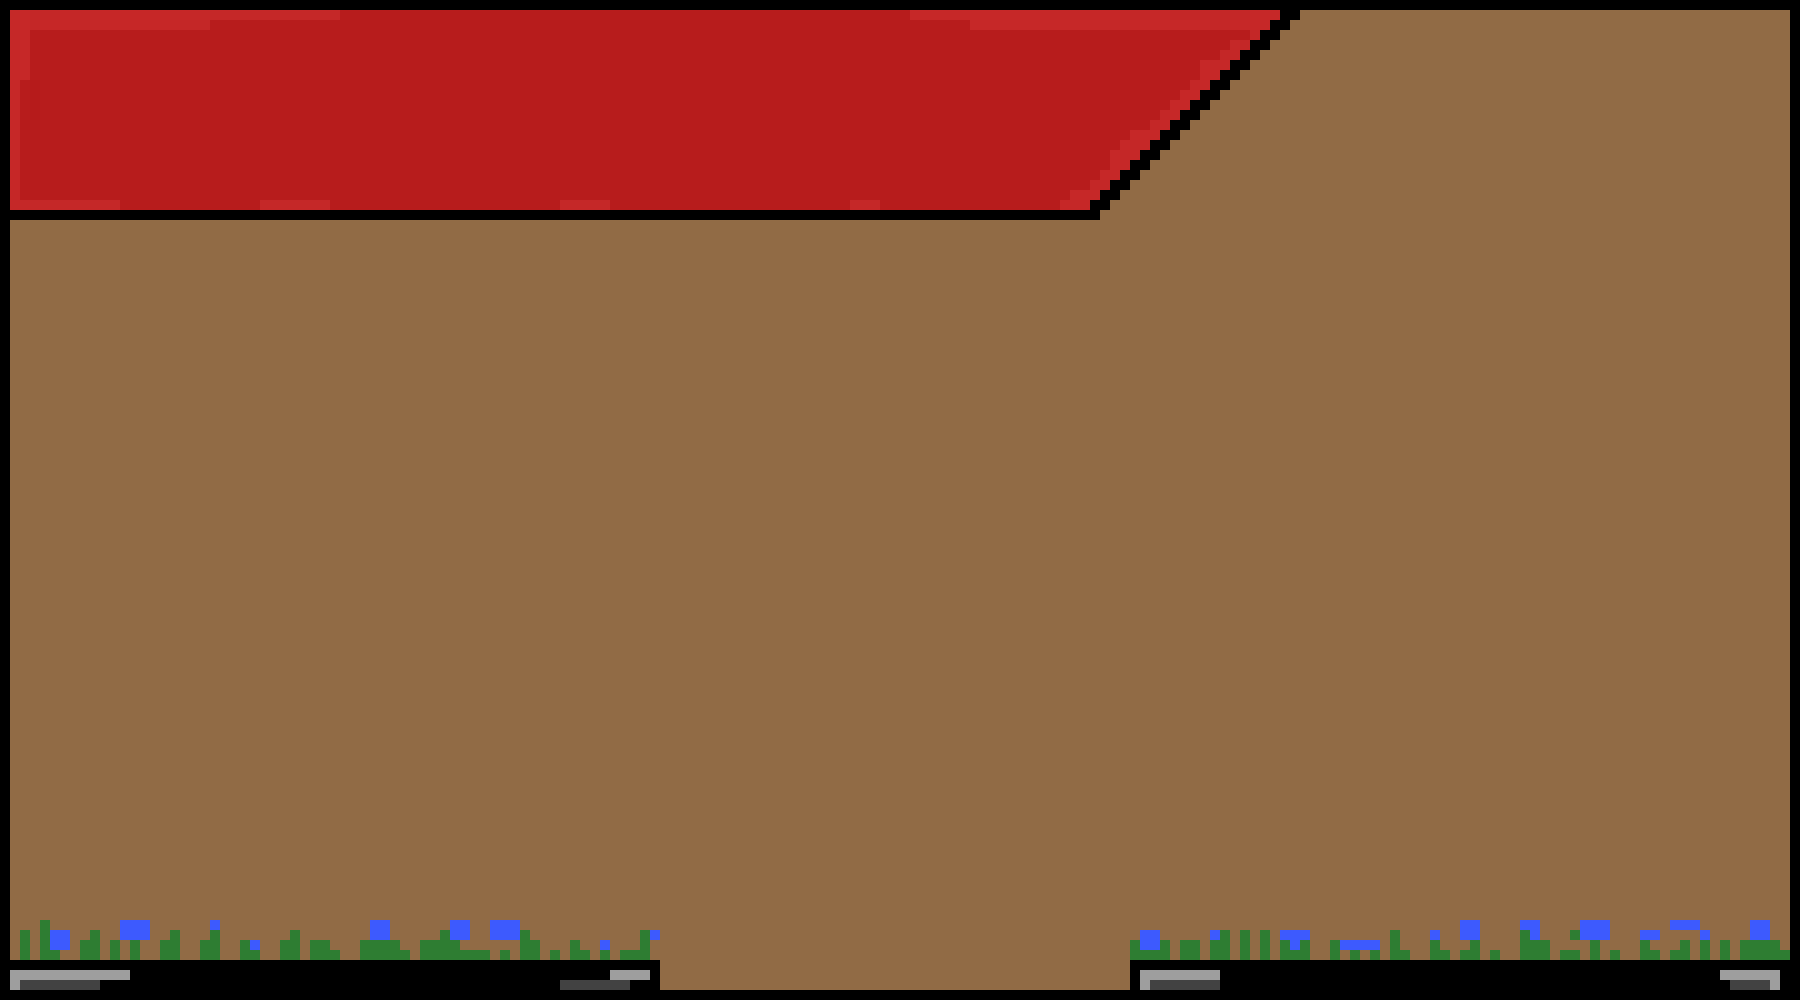
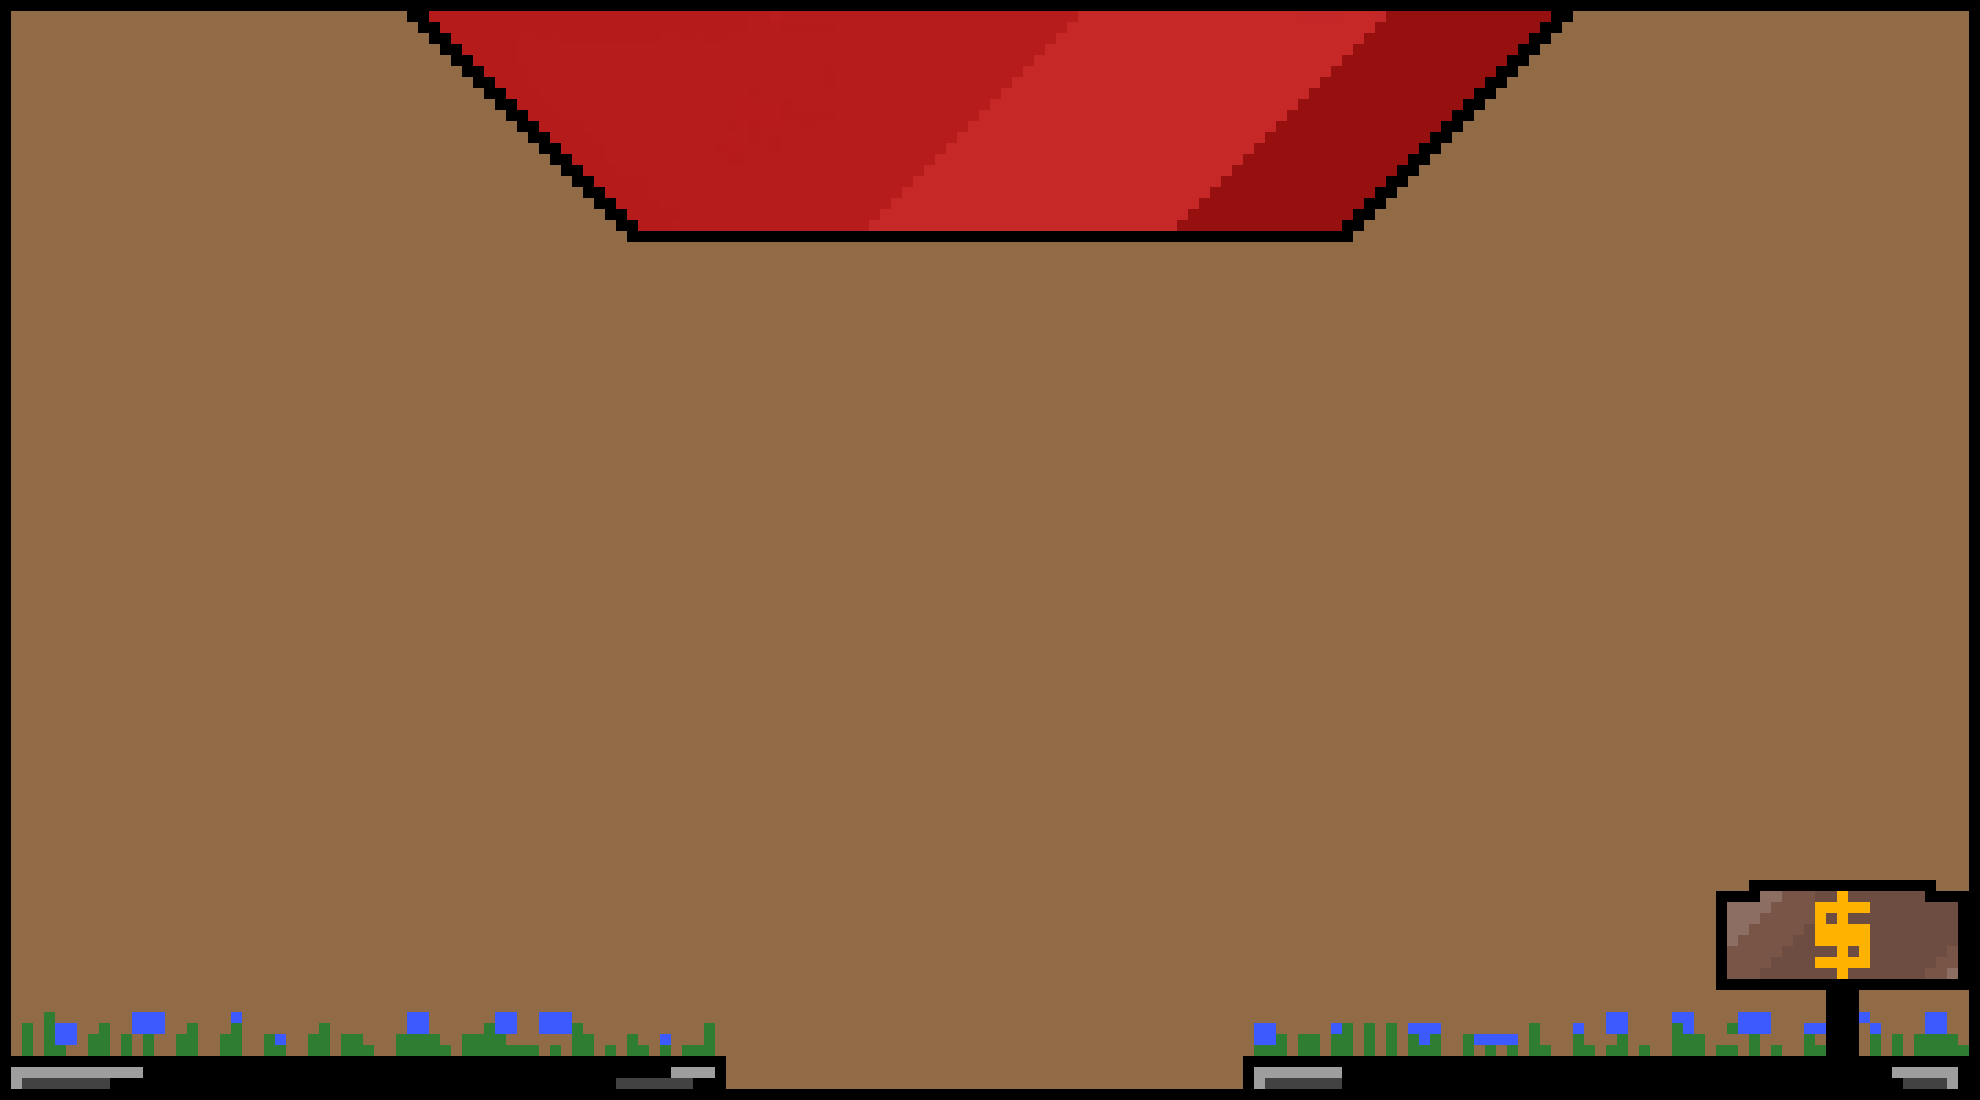
"update new inventtory layout and new shop background"

diff --git a/source/core/src/main/com/deco2800/game/components/InventoryDisplay.java b/source/core/src/main/com/deco2800/game/components/InventoryDisplay.java
@@ -72,27 +72,16 @@ public class InventoryDisplay extends UIComponent {
         inventoryFrame.setPosition(Gdx.graphics.getWidth() / 2f - inventoryFrame.getWidth() / 2f,
                 Gdx.graphics.getHeight() / 2f - inventoryFrame.getHeight() / 2f);
 
-        Texture crossTexture = new Texture(Gdx.files.internal("images/cross.png"));
+        Texture crossTexture = new Texture(Gdx.files.internal("images/backButton.png"));
         TextureRegionDrawable cross = new TextureRegionDrawable(crossTexture);
         ImageButton crossFrame = new ImageButton(cross, cross);
         crossFrame.setSize(40f, 40f);
         crossFrame.setPosition(inventoryFrame.getX() + 700f, inventoryFrame.getY() + 610f);
 
         Label subtitle = new Label("Inventory", skin, "title");
-        subtitle.setFontScale(1f);
+        subtitle.setFontScale(1.5f);
         subtitle.setColor(skin.getColor("black"));
-        subtitle.setPosition(inventoryFrame.getX() + 110f, inventoryFrame.getY() + 610f);
-
-        Image heartImage = new Image(
-                ServiceLocator.getResourceService().getAsset("images/uiElements/exports/heart.png",
-                        Texture.class));
-        heartImage.setSize(40f, 40f);
-        heartImage.setPosition(inventoryFrame.getX() + 400f, inventoryFrame.getY() + 610f);
-
-        Image healthBarImage = new Image(
-                ServiceLocator.getResourceService().getAsset("images/healthBar.png", Texture.class));
-        healthBarImage.setSize(200f, 30f);
-        healthBarImage.setPosition(inventoryFrame.getX() + 450f, inventoryFrame.getY() + 610f);
+        subtitle.setPosition(inventoryFrame.getX() + 250f, inventoryFrame.getY() + 610f);
 
         Texture leftTexture = new Texture(Gdx.files.internal("images/box-border.png"));
         TextureRegionDrawable leftDrawable = new TextureRegionDrawable(leftTexture);
@@ -100,21 +89,16 @@ public class InventoryDisplay extends UIComponent {
         leftBox.setSize(350f, 650f);
         leftBox.setPosition(inventoryFrame.getX() + 60f, inventoryFrame.getY() + 50f);
 
-        Texture leftTitleTexture = new Texture(Gdx.files.internal("images/description-box.png"));
-        TextureRegionDrawable leftTitleDrawable = new TextureRegionDrawable(leftTitleTexture);
-        ImageButton leftTitleBox = new ImageButton(leftTitleDrawable, leftTitleDrawable);
-        leftTitleBox.setSize(350f, 60f);
-        leftTitleBox.setPosition(leftBox.getX(), leftBox.getY() + 460f);
-
         Label leftTitle = new Label("Equipment", skin, "small");
+        leftTitle.setFontScale(1.5f);
         leftTitle.setColor(skin.getColor("white"));
-        leftTitle.setPosition(leftBox.getX() + 125f, leftBox.getY() + 480f);
+        leftTitle.setPosition(leftBox.getX() + 105f, leftBox.getY() + 480f);
 
         Texture leftArrowTexture = new Texture(Gdx.files.internal("images/left_arrow.png"));
         TextureRegionDrawable leftArrowDrawable = new TextureRegionDrawable(leftArrowTexture);
         ImageButton leftArrow = new ImageButton(leftArrowDrawable, leftArrowDrawable);
-        leftArrow.setSize(50f, 50f);
-        leftArrow.setPosition(leftBox.getX() + 20f, leftBox.getY() + 380f);
+        leftArrow.setSize(40f, 40f);
+        leftArrow.setPosition(leftBox.getX() + 20f, leftBox.getY() + 390f);
 
         if (currEquipListSize == 0) {
             prevTexture = new Texture(Gdx.files.internal("images/shop-category-button.png"));
@@ -163,47 +147,45 @@ public class InventoryDisplay extends UIComponent {
         }
 
         prevEquipment = new Image(prevTexture);
-        prevEquipment.setSize(50f, 50f);
-        prevEquipment.setPosition(leftBox.getX() + 75f, leftBox.getY() + 380f);
+        prevEquipment.setSize(70f, 70f);
+        prevEquipment.setPosition(leftBox.getX() + 70f, leftBox.getY() + 380f);
 
         currEquipment = new Image(currTexture);
-        currEquipment.setSize(70f, 70f);
-        currEquipment.setPosition(leftBox.getX() + 135f, leftBox.getY() + 380f);
+        currEquipment.setSize(80f, 80f);
+        currEquipment.setPosition(leftBox.getX() + 130f, leftBox.getY() + 380f);
 
         nextEquipment = new Image(nextTexture);
-        nextEquipment.setSize(50f, 50f);
-        nextEquipment.setPosition(leftBox.getX() + 215f, leftBox.getY() + 380f);
+        nextEquipment.setSize(70f, 70f);
+        nextEquipment.setPosition(leftBox.getX() + 198f, leftBox.getY() + 380f);
 
         Texture rightArrowTexture = new Texture(Gdx.files.internal("images/right_arrow.png"));
         TextureRegionDrawable rightArrowDrawable = new TextureRegionDrawable(rightArrowTexture);
         ImageButton rightArrow = new ImageButton(rightArrowDrawable, rightArrowDrawable);
-        rightArrow.setSize(50f, 50f);
-        rightArrow.setPosition(leftBox.getX() + 275f, leftBox.getY() + 380f);
+        rightArrow.setSize(40f, 40f);
+        rightArrow.setPosition(leftBox.getX() + 280f, leftBox.getY() + 390f);
 
-        Texture leftSmallTitle1Texture = new Texture(Gdx.files.internal("images/shop-buy-button.png"));
+        Texture leftSmallTitle1Texture = new Texture(Gdx.files.internal("images/Home_Button.png"));
         TextureRegionDrawable leftSmallTitle1Drawable = new TextureRegionDrawable(leftSmallTitle1Texture);
         TextButton leftSmallTitle1 = ShopUtils.createInventoryButton("Equip", skin.getColor("black"), "button",
                 1f, leftSmallTitle1Drawable, leftSmallTitle1Drawable, skin, false);
-        leftSmallTitle1.setSize(125f, 60f);
-        leftSmallTitle1.setPosition(leftBox.getX() + 20f, leftBox.getY() + 320f);
+        leftSmallTitle1.setSize(115f, 35f);
+        leftSmallTitle1.setPosition(leftBox.getX() + 50f, leftBox.getY() + 330f);
 
-        Texture leftSmallTitle2Texture = new Texture(Gdx.files.internal("images/shop-buy-button.png"));
+        Texture leftSmallTitle2Texture = new Texture(Gdx.files.internal("images/Home_Button.png"));
         TextureRegionDrawable leftSmallTitle2Drawable = new TextureRegionDrawable(leftSmallTitle2Texture);
         TextButton leftSmallTitle2 = ShopUtils.createInventoryButton("Disarm", skin.getColor("black"), "button",
                 1f, leftSmallTitle2Drawable, leftSmallTitle2Drawable, skin, false);
-        leftSmallTitle2.setSize(125f, 60f);
-        leftSmallTitle2.setPosition(leftBox.getX() + 175f, leftBox.getY() + 320f);
+        leftSmallTitle2.setSize(125f, 35f);
+        leftSmallTitle2.setPosition(leftBox.getX() + 175f, leftBox.getY() + 330f);
 
         equipmentStats = FileLoader.readClass(
                 EquipmentConfig.class,
                 Equipments.getFilepath(currentEquipment));
-        Texture descriptionTexture = new Texture(Gdx.files.internal("images/description-box.png"));
-        TextureRegionDrawable descriptionDrawable = new TextureRegionDrawable(descriptionTexture);
         description = ShopUtils.createImageTextButton(equipmentStats.name + "\n" + equipmentStats.description,
                 skin.getColor("black"), "button",
-                1f, descriptionDrawable, descriptionDrawable, skin, true);
+                1f, null, null, skin, true);
         description.setSize((float) (description.getWidth() / 2.1), description.getHeight() / 5);
-        description.setPosition(leftBox.getX() + 10f, leftBox.getY() + 250f);
+        description.setPosition(leftBox.getX() + 110f, leftBox.getY() + 280f);
 
         Texture selectedTexture = new Texture(Gdx.files.internal("images/selected-item-box.png"));
         TextureRegionDrawable selectedDrawable = new TextureRegionDrawable(selectedTexture);
@@ -256,15 +238,10 @@ public class InventoryDisplay extends UIComponent {
         rightBox.setSize(350f, 650f);
         rightBox.setPosition(inventoryFrame.getX() + 410f, inventoryFrame.getY() + 50f);
 
-        Texture rightHealthTexture = new Texture(Gdx.files.internal("images/description-box.png"));
-        TextureRegionDrawable rightHealthDrawable = new TextureRegionDrawable(rightHealthTexture);
-        ImageButton rightHealthFrame = new ImageButton(rightHealthDrawable, rightHealthDrawable);
-        rightHealthFrame.setSize(350f, 60f);
-        rightHealthFrame.setPosition(rightBox.getX() - 50f, rightBox.getY() + 460f);
-
         Label healthTitle = new Label("Health", skin, "small");
         healthTitle.setColor(skin.getColor("white"));
-        healthTitle.setPosition(rightBox.getX() + 80f, rightBox.getY() + 480f);
+        healthTitle.setFontScale(1.5f);
+        healthTitle.setPosition(rightBox.getX() + 120f, rightBox.getY() + 480f);
 
         Texture potionTexture = new Texture(Gdx.files.internal("images/shop-health-potion.png"));
         TextureRegionDrawable potionDrawable = new TextureRegionDrawable(potionTexture);
@@ -279,47 +256,50 @@ public class InventoryDisplay extends UIComponent {
         potionQuantity.setColor(skin.getColor("black"));
         potionQuantity.setPosition(rightBox.getX() + 100f, rightBox.getY() + 405f);
 
-        Texture potionUseTexture = new Texture(Gdx.files.internal("images/shop-buy-button.png"));
+        Texture potionUseTexture = new Texture(Gdx.files.internal("images/Home_Button.png"));
         TextureRegionDrawable potionUseDrawable = new TextureRegionDrawable(potionUseTexture);
         TextButton potionUseButton = ShopUtils.createInventoryButton("USE", skin.getColor("black"), "button",
                 1f, potionUseDrawable, potionUseDrawable, skin, false);
-        potionUseButton.setPosition(rightBox.getX() + 230f, rightBox.getY() + 365f);
+        potionUseButton.setSize(115f, 35f);
+        potionUseButton.setPosition(rightBox.getX() + 210f, rightBox.getY() + 405f);
 
         Texture clockTexture = new Texture(Gdx.files.internal("images/shop-clock.png"));
         TextureRegionDrawable clockDrawable = new TextureRegionDrawable(clockTexture);
         ImageButton clock = new ImageButton(clockDrawable, clockDrawable);
         clock.setSize(40f, 40f);
-        clock.setPosition(rightBox.getX() + 50f, rightBox.getY() + 355f);
+        clock.setPosition(rightBox.getX() + 50f, rightBox.getY() + 305f);
 
         clockQuantity = new Label("X" + MainArea.getInstance().getGameArea().getPlayer()
                 .getComponent(InventoryComponent.class).getItems().getOrDefault(Artefact.CLOCK, 0),
                 skin, "large");
         clockQuantity.setColor(skin.getColor("black"));
-        clockQuantity.setPosition(rightBox.getX() + 100f, rightBox.getY() + 355f);
+        clockQuantity.setPosition(rightBox.getX() + 100f, rightBox.getY() + 305f);
 
-        Texture clockUseTexture = new Texture(Gdx.files.internal("images/shop-buy-button.png"));
+        Texture clockUseTexture = new Texture(Gdx.files.internal("images/Home_Button.png"));
         TextureRegionDrawable clockUseDrawable = new TextureRegionDrawable(clockUseTexture);
         TextButton clockUseButton = ShopUtils.createInventoryButton("USE", skin.getColor("black"), "button", 1f,
                 clockUseDrawable, clockUseDrawable, skin, false);
-        clockUseButton.setPosition(rightBox.getX() + 230f, rightBox.getY() + 315f);
+        clockUseButton.setSize(115f, 35f);
+        clockUseButton.setPosition(rightBox.getX() + 210f, rightBox.getY() + 305f);
 
         Texture bedTexture = new Texture(Gdx.files.internal("images/shop-bed.png"));
         TextureRegionDrawable bedDrawable = new TextureRegionDrawable(bedTexture);
         ImageButton bed = new ImageButton(bedDrawable, bedDrawable);
         bed.setSize(40f, 40f);
-        bed.setPosition(rightBox.getX() + 50f, rightBox.getY() + 305f);
+        bed.setPosition(rightBox.getX() + 50f, rightBox.getY() + 205f);
 
         bedQuantity = new Label("X" + MainArea.getInstance().getGameArea().getPlayer()
                 .getComponent(InventoryComponent.class).getItems().getOrDefault(Artefact.BED, 0), skin,
                 "large");
         bedQuantity.setColor(skin.getColor("black"));
-        bedQuantity.setPosition(rightBox.getX() + 100f, rightBox.getY() + 305f);
+        bedQuantity.setPosition(rightBox.getX() + 100f, rightBox.getY() + 205f);
 
-        Texture bedUseTexture = new Texture(Gdx.files.internal("images/shop-buy-button.png"));
+        Texture bedUseTexture = new Texture(Gdx.files.internal("images/Home_Button.png"));
         TextureRegionDrawable bedUseDrawable = new TextureRegionDrawable(bedUseTexture);
         TextButton bedUseButton = ShopUtils.createInventoryButton("USE", skin.getColor("black"), "button", 1f,
                 bedUseDrawable, bedUseDrawable, skin, false);
-        bedUseButton.setPosition(rightBox.getX() + 230f, rightBox.getY() + 265f);
+        bedUseButton.setSize(115f, 35f);
+        bedUseButton.setPosition(rightBox.getX() + 210f, rightBox.getY() + 205f);
 
         crossFrame.addListener(
                 new ChangeListener() {
@@ -587,10 +567,7 @@ public class InventoryDisplay extends UIComponent {
 
         group.addActor(inventoryFrame);
         group.addActor(subtitle);
-        group.addActor(heartImage);
-        group.addActor(healthBarImage);
         group.addActor(leftBox);
-        group.addActor(leftTitleBox);
         group.addActor(leftTitle);
         group.addActor(leftArrow);
         group.addActor(prevEquipment);
@@ -606,7 +583,6 @@ public class InventoryDisplay extends UIComponent {
         group.addActor(defenceItem);
         group.addActor(defence);
         group.addActor(rightBox);
-        group.addActor(rightHealthFrame);
         group.addActor(healthTitle);
         group.addActor(potion);
         group.addActor(potionQuantity);

diff --git a/source/core/src/main/com/deco2800/game/components/shop/EquipmentsShopDisplay.java b/source/core/src/main/com/deco2800/game/components/shop/EquipmentsShopDisplay.java
@@ -182,7 +182,7 @@ public class EquipmentsShopDisplay extends UIComponent {
         backButton = new ImageButton(upBack, upBack);
 
         subtitle = new Label("EQUIPMENT", skin, "title");
-        subtitle.setFontScale(1.5f);
+        subtitle.setFontScale(2f);
         subtitle.setColor(skin.getColor("black"));
 
         itemDisplay.add(prevItem).width(Gdx.graphics.getWidth() * 0.058f).height(Gdx.graphics.getWidth() * 0.058f);
@@ -212,8 +212,8 @@ public class EquipmentsShopDisplay extends UIComponent {
                 Gdx.graphics.getHeight() / 2f - Gdx.graphics.getHeight() * 0.33f);
         priceDisplay.setSize(Gdx.graphics.getWidth() * 0.094f, Gdx.graphics.getHeight() * 0.156f);
 
-        subtitle.setPosition(Gdx.graphics.getWidth() * 0.15f + 110f,
-                Gdx.graphics.getHeight() * 0.85f - 110f);
+        subtitle.setPosition(Gdx.graphics.getWidth() * 0.45f,
+                Gdx.graphics.getHeight() * 0.75f);
 
         backButton.setPosition(Gdx.graphics.getWidth() * 0.15f + 30f,
                 Gdx.graphics.getHeight() * 0.85f -70f);

diff --git a/source/core/src/main/com/deco2800/game/components/shop/ArtefactShopDisplay.java b/source/core/src/main/com/deco2800/game/components/shop/ArtefactShopDisplay.java
@@ -170,7 +170,7 @@ public class ArtefactShopDisplay extends UIComponent {
         backButton = new ImageButton(upBack, upBack);
 
         subtitle = new Label("ARTEFACTS", skin, "title");
-        subtitle.setFontScale(1.5f);
+        subtitle.setFontScale(2f);
         subtitle.setColor(skin.getColor("black"));
 
         itemDisplay.add(prevItem).width(Gdx.graphics.getWidth() * 0.058f).height(Gdx.graphics.getWidth() * 0.058f);
@@ -200,8 +200,8 @@ public class ArtefactShopDisplay extends UIComponent {
                 Gdx.graphics.getHeight() / 2f - Gdx.graphics.getHeight() * 0.33f);
         priceDisplay.setSize(Gdx.graphics.getWidth() * 0.094f, Gdx.graphics.getHeight() * 0.156f);
 
-        subtitle.setPosition(Gdx.graphics.getWidth() * 0.15f + 110f,
-                Gdx.graphics.getHeight() * 0.85f - 110f);
+        subtitle.setPosition(Gdx.graphics.getWidth() * 0.45f,
+                Gdx.graphics.getHeight() * 0.75f);
 
         backButton.setPosition(Gdx.graphics.getWidth() * 0.15f + 30f,
                 Gdx.graphics.getHeight() * 0.85f -70f);

diff --git a/source/core/src/main/com/deco2800/game/components/shop/ShopInterface.java b/source/core/src/main/com/deco2800/game/components/shop/ShopInterface.java
@@ -22,8 +22,6 @@ public class ShopInterface extends UIComponent {
     private Table backgroundTable;
     private Group group;
     private Group category;
-
-    Table building;
     Table artefact;
     Table equipment;
 
@@ -81,10 +79,10 @@ public class ShopInterface extends UIComponent {
 
         // setup title
         subtitle = new Label("Shop", skin, "title");
-        subtitle.setFontScale(1.5f);
+        subtitle.setFontScale(2f);
         subtitle.setColor(skin.getColor("black"));
-        subtitle.setPosition(Gdx.graphics.getWidth() * 0.15f + 110f,
-                Gdx.graphics.getHeight() * 0.85f - 110f);
+        subtitle.setPosition(Gdx.graphics.getWidth() * 0.47f,
+                Gdx.graphics.getHeight() * 0.75f);
 
         // setup artefact category
         artefactTexture = new Texture(Gdx.files.internal("images/shop-items-framed/category-button-clicked.png"));

diff --git a/source/core/src/main/com/deco2800/game/screens/MainGameScreen.java b/source/core/src/main/com/deco2800/game/screens/MainGameScreen.java
@@ -197,10 +197,10 @@ public class MainGameScreen extends ScreenAdapter {
         .addComponent(inputComponent)
         .addComponent(new TerminalDisplay())
         .addComponent(new AchievementInterface())
-        .addComponent(new ShopInterface())
         .addComponent(new ArtefactShopDisplay())
         .addComponent(new BuildingShopDisplay())
         .addComponent(new EquipmentsShopDisplay())
+        .addComponent(new ShopInterface())
         .addComponent(new InventoryDisplay());
 
     ServiceLocator.getEntityService().registerNamed("ui", ui);
